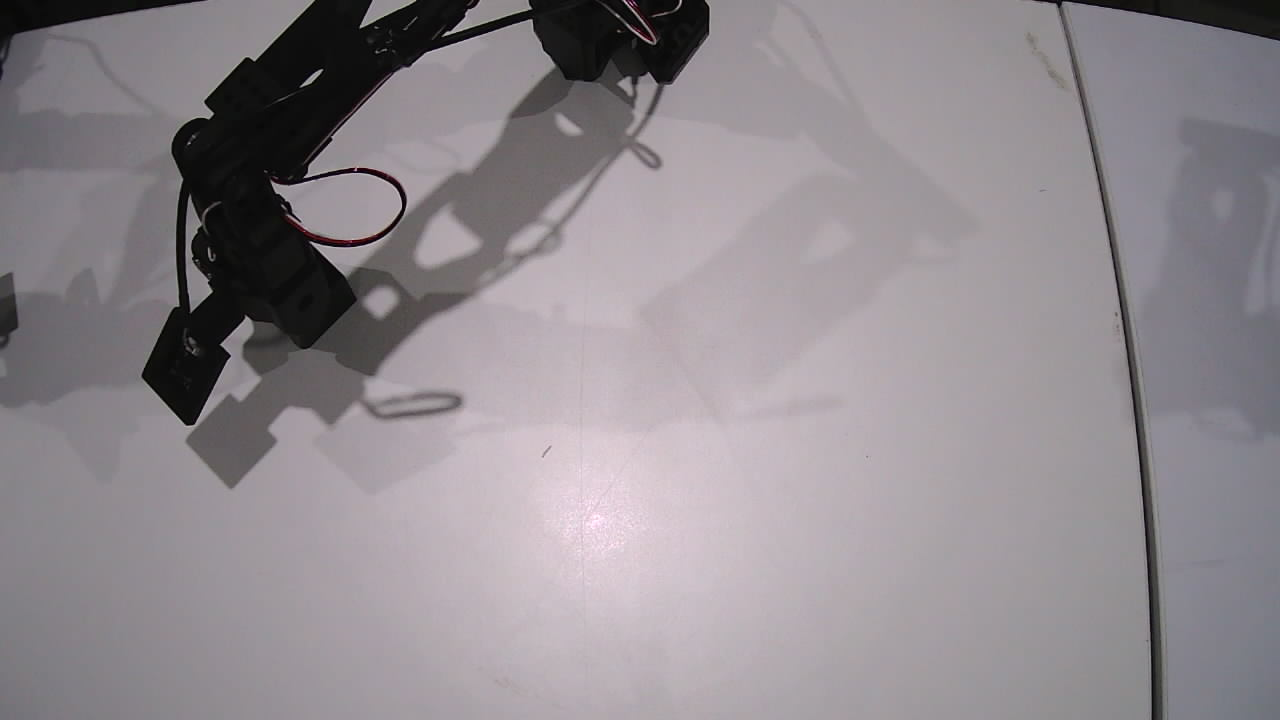
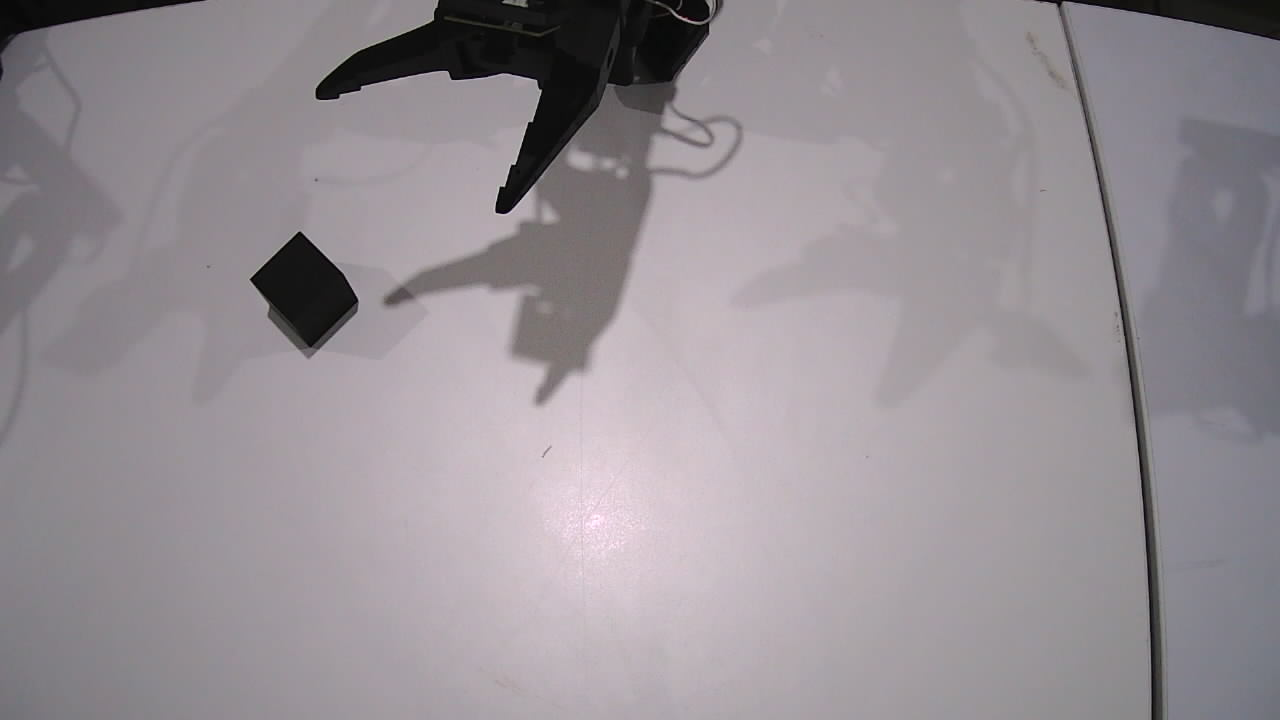
Update tools for arm-006__gpt-6-astra__grasp-cube
{"agent_id": "arm-006__gpt-6-astra__grasp-cube", "baseline_sha256": "6df93a20a05a3dc1a156aa3b51eb1788e2ddcd91056a577397b979b7e33a31ed", "baseline_version": 1, "designation": "arm-006", "experiment_id": "60ddc167-ccd2-416f-ad08-ab3b06d545fc", "fleet_database_enabled": false, "freshness_version": 2, "identity_version": 2, "model": "gpt-6-astra", "preserved_sha256": {"calibration/20261005T100921_180531211/intrinsics.json": "4ec6b1a49abda43063976d392ddf66a39353947ce3d08c35a88e17c021954163", "calibration/20261005T100921_180531211/report.json": "c36605c4f486eda36e5b659a6f6428e72a5679222d74ef6550e54b39fe44cb63", "calibration/20261005T100921_180531211/workspace_map.json": "a057358c35ff4d80235ff64e4b2f909b3d933f39c7657a719e535014511e5796", "calibration/20261005T100921_180531211/workspace_map.npz": "05e9f06fb38099b74b4dcf1a233c88bfe3cfc0e95c144da8c173346c2727279a", "calibration/20261005T100921_180531211/workspace_undistorted.png": "0cf381266158cf31f6acf0bc6fbdf818957f14528b1651d3761cc4271ca91053", "calibration/ready.json": "a2b2addfd83165981076a80147577469be26edadaff97f388cc365b77e7f4986", "cameras.json": "343a8b61bbc2d74885ee73db1cb84786681ef9bdfa17db4ff9f7a2ee160c0ef0", "config/motors/arm-006.json": "2e75c66010c99cdd47926348632396d2a4f09bd195ccb8c200f777b70068611f", "home_pose.json": "908e801e509a421a940722512db24462fd5390764e1e33a5464ccec438febb21", "tools/calibrate_workspace.py": "119afb4f6ffb1f3b424724658b6104c288c5db2a34f2b6faaba2ada84d8aaf17"}, "provider": "codex", "reset_at
[…]

Changed region(s): [[0.0, 0.0, 0.5938, 0.6722]]

diff --git a/agents/arm-006__gpt-6-astra__grasp-cube/final_report.md b/agents/arm-006__gpt-6-astra__grasp-cube/final_report.md
@@ -1,11 +1,7 @@
 # Cube collection status
 
-112 verified successes, 94 without recording-quality flags; 18 failed episodes. Latest resumption added 2 successes.
+Latest operator-directed resumption completed 32 successful episodes, including the monitored first attempt. Total 144 successes, 123 recordings without quality flags, 19 failed episodes. There were 32 successful episode starts in the preceding hour; the50/hour target is not yet met. All45 nominal grid locations have earlier successful samples; continuous workspace coverage is unverified.
 
-42 successful episode starts in the preceding 60 minutes; the 50/hour requirement remains unmet. All 45 nominal grid locations have been sampled, including a completed repeat pass. Continuous workspace coverage is unverified.
+Episode20261005T172014-0fec2545 stopped on temperature66C under software guard65C. Exact trip registers: position2385, goal2362, load104, current4, fault bits0. Values other than temperature are raw units. Hardware protection remains70C. No limits raised, faults ignored, or grasp retries commanded after the trip. Cause remains unconfirmed.
 
-Collection stopped on a 67 C reading under the unchanged 65 C software guard. Hardware protection remains 70 C. Root cause is unconfirmed.
-
-Cube released at nominal x=.1723 m, pan=28 degrees. Arm home (maximum error 1.27 degrees), gripper open and torque off, recorder stopped, all fault bits zero. Next pickup: grid index 11.
-
-Latest turn performed read-only diagnosis, adding no episodes. Randomized-order idle feedback reached68C with gripper torque off; root cause remains unresolved. See temperature_order_check.json. Collection remains paused, with65C software and70C hardware protection retained.
+Cube released at nominal x=.2181m, pan42degrees. Arm home (maximum error1.27degrees), gripper open and torque off, recorder stopped, fault bits zero. Post-stop gripper reading48C. Next pickup location is grid43.
